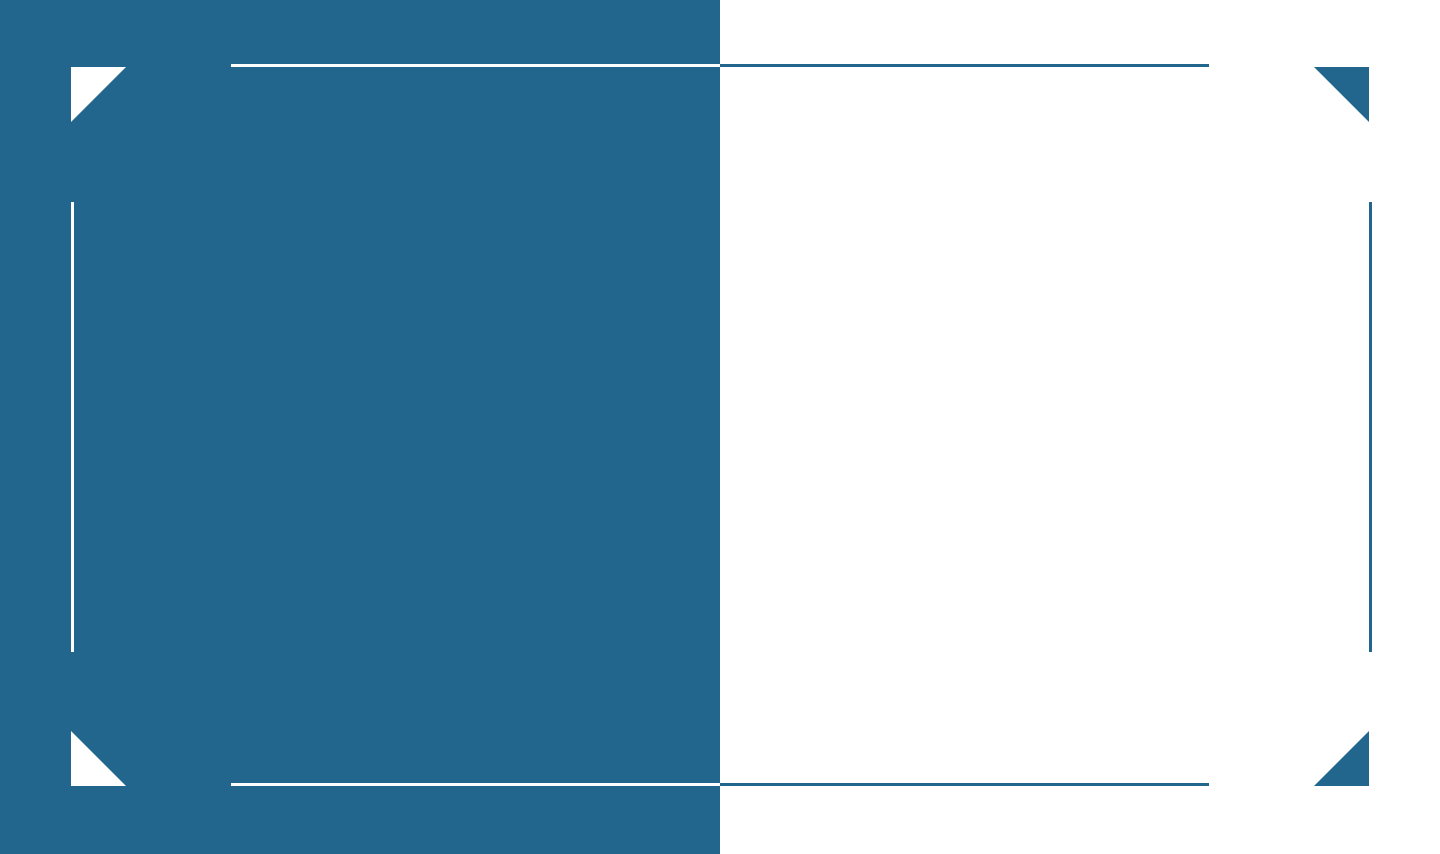
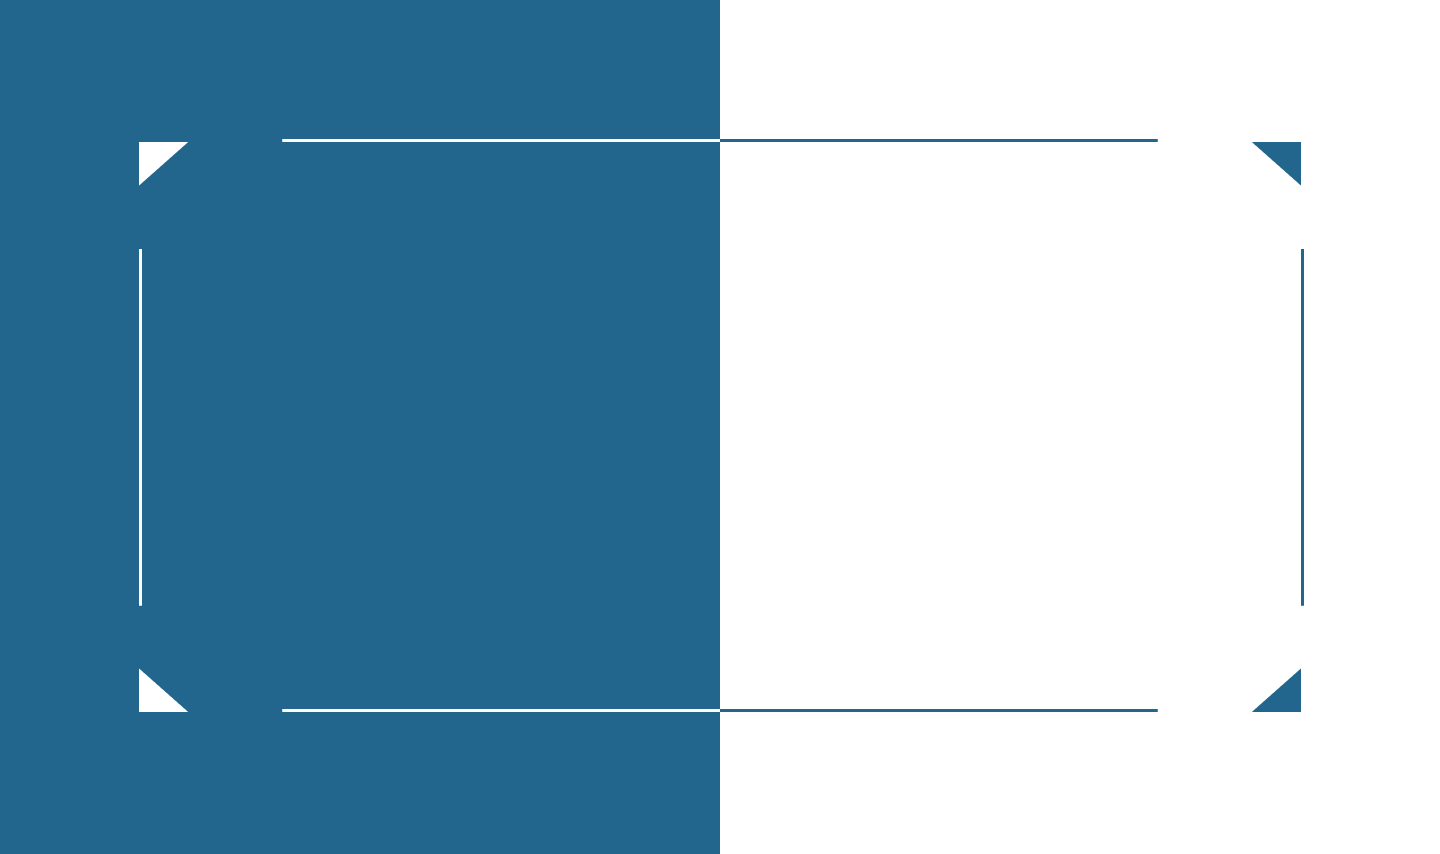
login register reset password verify email done

diff --git a/src/views/auth/Login.vue b/src/views/auth/Login.vue
@@ -3,23 +3,21 @@
         <div class="flex flex-col w-screen h-full lg:h-screen overflow-hidden text-white">
             <div class="flex-grow">
                 <div class="flex justify-center items-center min-h-screen">
-                    <div class="border-l-2 border-b-2">
-                        <div
-                            class="bg-white rounded-l-md bg-[url(@/assets/Login/pita-kiri-atas.png)] bg-no-repeat w-[450px] h-[500px]">
-                            <div class="relative">
-                                <div v-if="showMaskot" class="maskot-container" @click="toggleMaskot">
-                                    <img src="../../assets/Login/profile-sekolah.png" alt="" class="p-5" />
-                                    <img src="../../assets/Login/Ilustrasi.png" alt="" class="p-5" />
-                                </div>
-                                <div v-show="!showMaskot">
-                                    <img src="../../assets/Login/profile-sekolah.png" alt="" class="p-5" />
-                                    <img src="../../assets/Login/Ilustrasi.png" alt="" class="p-5" />
-                                </div>
-                            </div>
+                    <div
+                        class="bg-white rounded-l-md bg-[url(@/assets/Login/pita-kiri-atas.png)] bg-no-repeat w-[450px] h-[500px]">
+                        <div class="relative">
+                            <a target="_blank" href="https://smkn2-bjm.sch.id/">
+                                <img src="../../assets/Login/profile-sekolah.png" alt="logo-sekolah" class="p-5" />
+                            </a>
+                            <img src="../../assets/Login/Ilustrasi.png" alt="Ilustrasi" class="p-5" />
                         </div>
                     </div>
+                    <div v-if="showMaskot" @click="toggleMaskot" class="maskot absolute z-0">
+                        <img src="../../assets/Login/maskot-login.png" alt="maskot" class="" />
+                        <img src="../../assets/Login/maskot-login.png" alt="maskot" v-show="!showMaskot" class="opacity-0" />
+                    </div>
                     <div
-                        class="flex flex-col justify-center items-center bg-[#22668D] rounded-r-md bg-[url(@/assets/Login/pita-kanan-bawah.png)] bg-right-bottom bg-no-repeat w-[450px] h-[500px]">
+                        class="relative flex flex-col justify-center items-center bg-[#22668D] rounded-r-md bg-[url(@/assets/Login/pita-kanan-bawah.png)] bg-right-bottom bg-no-repeat w-[450px] h-[500px] z-40">
                         <div class="m-5">
                             <h2 class="text-center font-bold text-2xl mb-2">Login</h2>
                             <span class="flex flex-col gap-3">
@@ -30,7 +28,7 @@
                                             <EnvelopeIcon class="w-5 text-slate-900" />
                                         </div>
                                         <input type="email" id="input-group-1"
-                                            class="bg-white border border-slate-900 text-white text-sm rounded-lg focus:ring-blue-500 focus:border-blue-500 block w-full ps-10 p-2.5 dark:bg-transparent dark:border-gray-600 dark:placeholder-gray-400 dark:text-white dark:focus:ring-blue-500 dark:focus:border-blue-500 placeholder:text-slate-900"
+                                            class="bg-white border border-slate-900 text-slate-900 text-sm rounded-lg focus:ring-blue-500 focus:border-blue-500 block w-full ps-10 p-2.5 dark:bg-transparent dark:border-gray-600 dark:placeholder-gray-400 dark:text-white dark:focus:ring-blue-500 dark:focus:border-blue-500 placeholder:text-slate-900"
                                             placeholder="Email" />
                                     </span>
                                 </div>
@@ -41,7 +39,7 @@
                                         </div>
                                         <label for="input-group-2" class="font-semibold">Password</label>
                                         <input type="password" id="input-group-2"
-                                            class="bg-white border border-slate-900 text-white text-sm rounded-lg focus:ring-blue-500 focus:border-blue-500 block w-full ps-10 p-2.5 dark:bg-transparent dark:border-gray-600 dark:placeholder-gray-400 dark:text-white dark:focus:ring-blue-500 dark:focus:border-blue-500 placeholder:text-slate-900"
+                                            class="bg-white border border-slate-900 text-slate-900 text-sm rounded-lg focus:ring-blue-500 focus:border-blue-500 block w-full ps-10 p-2.5 dark:bg-transparent dark:border-gray-600 dark:placeholder-gray-400 dark:text-white dark:focus:ring-blue-500 dark:focus:border-blue-500 placeholder:text-slate-900"
                                             placeholder="Password" />
                                     </span>
                                 </div>
@@ -59,7 +57,7 @@
                                         saya</label>
                                 </div>
                                 <div>
-                                    <a href="../auth/Register.vue"> Lupa Password? </a>
+                                    <a href="/verifikasi"> Lupa Password? </a>
                                 </div>
                             </div>
                         </div>
@@ -94,18 +92,29 @@
     @import url('https://fonts.googleapis.com/css2?family=Inter&display=swap" rel="stylesheet');
 
     .bg {
-        background-color: #22668D;
-        width: 50vw;
-        /* background: url(@/assets/Login/bg-login.png) no-repeat; */
+        background: url(@/assets/Login/bg.png) center no-repeat;
         font-family: 'Inter', sans-serif;
     }
 
-    .hiasan {
-        background: url(@/assets/Login/hiasan-login.png) no-repeat;
+    .maskot {
+        position: absolute;
+        bottom: 70%;
+        right: 48.7.5%;
+        transform: translate(-50%, -50%);
+        max-width: 100%;
+        transition: opacity 1s ease-out;
+        animation: fadeInFromRight 1s ease-in-out;
     }
 
-    .maskot-container {
-        transition: opacity 1s ease-out;
-        background: url(@/assets/Login/maskot-login.png) right top no-repeat;
+    @keyframes fadeInFromRight {
+        0% {
+            opacity: 1;
+            transform: translateX(10%);
+        }
+
+        100% {
+            opacity: 1;
+            transform: translate(-50%, -50%);
+        }
     }
 </style>

diff --git a/src/views/auth/ResetPassword.vue b/src/views/auth/ResetPassword.vue
@@ -19,52 +19,41 @@
                     <div
                         class="relative flex flex-col justify-center items-center bg-[#22668D] rounded-r-md bg-[url(@/assets/Login/pita-kanan-bawah.png)] bg-right-bottom bg-no-repeat w-[450px] h-[500px] z-40">
                         <div class="m-5">
-                            <h2 class="text-center font-bold text-2xl mb-2">Create Account</h2>
+                            <h2 class="text-center font-bold text-2xl mb-2">Reset Password</h2>
                             <span class="flex flex-col gap-3">
                                 <div class="flex flex-col w-[260px]">
-                                    <label for="input-group-1" class="font-semibold">Email</label>
+                                    <label for="input-group-1" class="font-semibold">New Password</label>
                                     <span>
                                         <div class="absolute flex items-center p-2.5 pointer-events-none">
-                                            <EnvelopeIcon class="w-5 text-slate-900" />
-                                        </div>
-                                        <input type="email" id="input-group-1"
-                                            class="bg-white border border-slate-900 text-slate-900 text-sm rounded-lg focus:ring-blue-500 focus:border-blue-500 block w-full ps-10 p-2.5 dark:bg-transparent dark:border-gray-600 dark:placeholder-gray-400 dark:text-white dark:focus:ring-blue-500 dark:focus:border-blue-500 placeholder:text-slate-900"
-                                            placeholder="Email" />
-                                    </span>
-                                </div>
-                                <div class="flex flex-col w-[260px]">
-                                    <label for="input-group-1" class="font-semibold">Username</label>
-                                    <span>
-                                        <div class="absolute flex items-center p-2.5 pointer-events-none">
-                                            <UserIcon class="w-5 text-slate-900" />
-                                        </div>
-                                        <input type="text" id="input-group-1"
-                                            class="bg-white border border-slate-900 text-slate-900 text-sm rounded-lg focus:ring-blue-500 focus:border-blue-500 block w-full ps-10 p-2.5 dark:bg-transparent dark:border-gray-600 dark:placeholder-gray-400 dark:text-white dark:focus:ring-blue-500 dark:focus:border-blue-500 placeholder:text-slate-900"
-                                            placeholder="Email" />
-                                    </span>
-                                </div>
-                                <div class="flex flex-col w-[260px]">
-                                    <span>
-                                        <div class="absolute flex items-center py-[33px] px-3 pointer-events-none">
                                             <LockClosedIcon class="w-5 text-slate-900" />
                                         </div>
-                                        <label for="input-group-2" class="font-semibold">Password</label>
-                                        <input type="password" id="input-group-2"
+                                        <input type="password" id="input-group-1"
                                             class="bg-white border border-slate-900 text-slate-900 text-sm rounded-lg focus:ring-blue-500 focus:border-blue-500 block w-full ps-10 p-2.5 dark:bg-transparent dark:border-gray-600 dark:placeholder-gray-400 dark:text-white dark:focus:ring-blue-500 dark:focus:border-blue-500 placeholder:text-slate-900"
-                                            placeholder="Password" />
+                                            placeholder="New Password" />
+                                    </span>
+                                </div>
+                                <div class="flex flex-col w-[260px]">
+                                    <label for="input-group-1" class="font-semibold">Confirm Password</label>
+                                    <span>
+                                        <div class="absolute flex items-center p-2.5 pointer-events-none">
+                                            <LockClosedIcon class="w-5 text-slate-900" />
+                                        </div>
+                                        <input type="password" id="input-group-1"
+                                            class="bg-white border border-slate-900 text-slate-900 text-sm rounded-lg focus:ring-blue-500 focus:border-blue-500 block w-full ps-10 p-2.5 dark:bg-transparent dark:border-gray-600 dark:placeholder-gray-400 dark:text-white dark:focus:ring-blue-500 dark:focus:border-blue-500 placeholder:text-slate-900"
+                                            placeholder="Confirm Password" />
                                     </span>
                                 </div>
                                 <button
                                     class="inline-flex mt-5 lg:mx-0 mx-auto justify-center items-center gap-1 font-semibold rounded-md bg-[#3E9ACF] focus:bg-slate-300 border border-slate-900 hover:border-gray-400 dark:bg-transparent dark:focus:bg-slate-900 dark:border-gray-600 hover:dark:border-gray-400 shadow p-2 hover:bg-slate-400 text-slate-900">
-                                    Create Account
+                                    Confirm
                                 </button>
                             </span>
-                            <div class="flex justify-between text-sm mt-1">
+                            <!-- <div class="flex justify-between text-sm mt-1">
                                 <div class="flex items-center me-4">
                                     <p
-                                        class="ms-2 text-sm font-medium text-white dark:text-gray-300">Already have an account? <a class="text-yellow-400 font-semibold" href="../auth/Register.vue">Login here</a></p>
+                                        class="ms-2 text-sm font-medium text-white dark:text-gray-300"><a class="text-yellow-400 font-semibold" href="../auth/Login.vue">Back</a></p>
                                 </div>
-                            </div>
+                            </div> -->
                         </div>
                     </div>
                 </div>

diff --git a/src/views/auth/VerificationEmail.vue b/src/views/auth/VerificationEmail.vue
@@ -19,7 +19,7 @@
                     <div
                         class="relative flex flex-col justify-center items-center bg-[#22668D] rounded-r-md bg-[url(@/assets/Login/pita-kanan-bawah.png)] bg-right-bottom bg-no-repeat w-[450px] h-[500px] z-40">
                         <div class="m-5">
-                            <h2 class="text-center font-bold text-2xl mb-2">Create Account</h2>
+                            <h2 class="text-center font-bold text-2xl mb-2">Confirm your Email</h2>
                             <span class="flex flex-col gap-3">
                                 <div class="flex flex-col w-[260px]">
                                     <label for="input-group-1" class="font-semibold">Email</label>
@@ -32,37 +32,15 @@
                                             placeholder="Email" />
                                     </span>
                                 </div>
-                                <div class="flex flex-col w-[260px]">
-                                    <label for="input-group-1" class="font-semibold">Username</label>
-                                    <span>
-                                        <div class="absolute flex items-center p-2.5 pointer-events-none">
-                                            <UserIcon class="w-5 text-slate-900" />
-                                        </div>
-                                        <input type="text" id="input-group-1"
-                                            class="bg-white border border-slate-900 text-slate-900 text-sm rounded-lg focus:ring-blue-500 focus:border-blue-500 block w-full ps-10 p-2.5 dark:bg-transparent dark:border-gray-600 dark:placeholder-gray-400 dark:text-white dark:focus:ring-blue-500 dark:focus:border-blue-500 placeholder:text-slate-900"
-                                            placeholder="Email" />
-                                    </span>
-                                </div>
-                                <div class="flex flex-col w-[260px]">
-                                    <span>
-                                        <div class="absolute flex items-center py-[33px] px-3 pointer-events-none">
-                                            <LockClosedIcon class="w-5 text-slate-900" />
-                                        </div>
-                                        <label for="input-group-2" class="font-semibold">Password</label>
-                                        <input type="password" id="input-group-2"
-                                            class="bg-white border border-slate-900 text-slate-900 text-sm rounded-lg focus:ring-blue-500 focus:border-blue-500 block w-full ps-10 p-2.5 dark:bg-transparent dark:border-gray-600 dark:placeholder-gray-400 dark:text-white dark:focus:ring-blue-500 dark:focus:border-blue-500 placeholder:text-slate-900"
-                                            placeholder="Password" />
-                                    </span>
-                                </div>
                                 <button
                                     class="inline-flex mt-5 lg:mx-0 mx-auto justify-center items-center gap-1 font-semibold rounded-md bg-[#3E9ACF] focus:bg-slate-300 border border-slate-900 hover:border-gray-400 dark:bg-transparent dark:focus:bg-slate-900 dark:border-gray-600 hover:dark:border-gray-400 shadow p-2 hover:bg-slate-400 text-slate-900">
-                                    Create Account
+                                    Confirm
                                 </button>
                             </span>
-                            <div class="flex justify-between text-sm mt-1">
+                            <div class="flex justify-between text-sm mt-2">
                                 <div class="flex items-center me-4">
                                     <p
-                                        class="ms-2 text-sm font-medium text-white dark:text-gray-300">Already have an account? <a class="text-yellow-400 font-semibold" href="../auth/Register.vue">Login here</a></p>
+                                        class="flex gap-1 ms-2 text-sm font-medium text-white dark:text-gray-300"><ArrowLeftIcon class="w-5 text-yellow-400"/><a class="text-yellow-400 font-semibold" href="/Login">Back</a></p>
                                 </div>
                             </div>
                         </div>
@@ -77,6 +55,7 @@
     import { ref } from "vue";
     import {
         EnvelopeIcon,
+        ArrowLeftIcon,
         LockClosedIcon,
         UserIcon,
     } from "@heroicons/vue/24/solid";

diff --git a/src/router/index.js b/src/router/index.js
@@ -1,7 +1,8 @@
 import { createRouter, createWebHistory } from "vue-router";
 const Login = () => import('@/views/auth/Login.vue');
 const Register = () => import('@/views/auth/Register.vue');
-// const ResetPassword = () => import('');
+const VerifikasiEmail = () => import('../views/auth/VerificationEmail.vue');
+const ResetPassword = () => import('../views/auth/ResetPassword.vue');
 const Dashboard = () => import('@/views/Dashboard/Dashboard.vue');
 const Detail = () => import('@/views/Dashboard/Detail.vue');
 const Profile = () => import('@/views/Akun/Profile.vue');
@@ -121,6 +122,16 @@ const router = createRouter({
       path: "/register",
       name: "register",
       component: Register,
+    },
+    {
+      path: "/verifikasi",
+      name: "verifikasi",
+      component: VerifikasiEmail,
+    },
+    {
+      path: "/reset-password",
+      name: "reset-password",
+      component: ResetPassword,
     },
   ],
 });

diff --git a/src/components/Navbar.vue b/src/components/Navbar.vue
@@ -7,7 +7,7 @@
                         class="bg-[url(@/assets/img/logo_kulakoding.png)] w-14 h-14 bg-center bg-contain bg-no-repeat">
                     </div>
                 </router-link>
-                <ul class="flex items-center font-sans lg:ml-auto transition ease-in-out delay-10o0 hover:-translate-y-1 hover:scale-110 duration-300">
+                <ul class="flex items-center font-sans lg:ml-auto">
                     <li>
                         <router-link :to="{ name: 'about' }" class="text-xl  ml-2 font-bold hover:underline">About Us</router-link>
                     </li>
